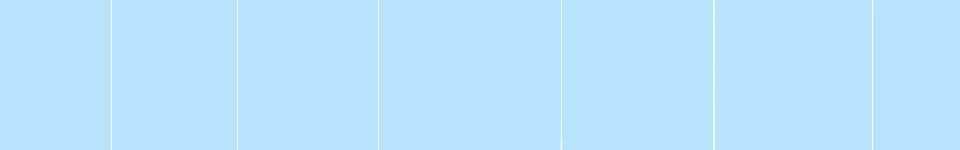
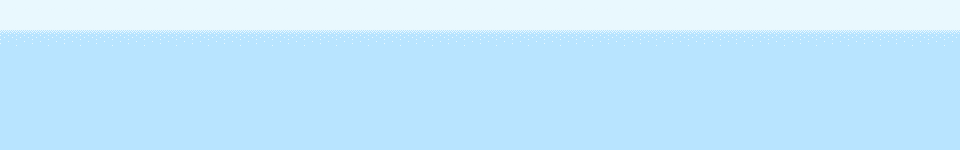
physics ajustments

Changed region(s): [[0.0, 0.0, 1.0, 0.2667]]

diff --git a/src/scenes/Play.js b/src/scenes/Play.js
@@ -5,9 +5,9 @@ class Play extends Phaser.Scene {
 
     create() {
 
-        this.JUMP_VELOCITY = -900;
+        this.JUMP_VELOCITY = -800;
         this.SCROLL_SPEED = 4;
-        this.physics.world.gravity.y = 2600;
+        this.physics.world.gravity.y = 3000; //2600;
         this.obstacleSpeed = -450;
         this.obstacleSpeedMax = -700; //-1000;
         level = 0;
@@ -68,6 +68,7 @@ class Play extends Phaser.Scene {
     update() {
 
         // this.ground.tilePositionX -= 1; 
+        this.sky.tilePositionX += 2;
         this.groundScroll.tilePositionX += this.SCROLL_SPEED;
 
         // make sure penguin is still alive
@@ -77,6 +78,7 @@ class Play extends Phaser.Scene {
             // penguin animations
             if (!this.penguin.body.touching.down && !sliding) {
                 this.penguin.anims.play('jump', true);
+                // console.log(this.penguin.getBottomCenter()); 
             }
             else if (this.penguin.body.touching.down && Phaser.Input.Keyboard.JustDown(keyDown)) {
                 sliding = true; 
@@ -126,7 +128,7 @@ class Play extends Phaser.Scene {
         this.penguin.destroyed = true;                    // turn off collision checking
         this.difficultyTimer.destroy();             // shut down timer
         // this.sound.play('death', { volume: 0.25 }); // play death sound
-        // this.cameras.main.shake(2500, 0.0075);      // camera death shake
+        this.cameras.main.shake(2500, 0.0075);      // camera death shake
         
         // // add tween to fade out audio
         // this.tweens.add({
@@ -140,7 +142,7 @@ class Play extends Phaser.Scene {
         this.penguin.destroy();    
 
         // switch states after timer expires
-        this.time.delayedCall(4000, () => { this.scene.start('gameOverScene'); });
+        this.time.delayedCall(2000, () => { this.scene.start('gameOverScene'); });
 
     }
 }

diff --git a/src/prefabs/Obstacle.js b/src/prefabs/Obstacle.js
@@ -6,7 +6,7 @@ class Obstacle extends Phaser.Physics.Arcade.Sprite {
         let randomObstacle = ['penguin']; 
         // super(scene, game.config.width + obstacleWidth, Phaser.Math.Between(obstacleHeight/2, game.config.height - obstacleHeight/2), randomObstacle[Math.floor(Math.random() * randomObstacle.length)]); 
         // super(scene, game.config.width + obstacleWidth, 365, 'penguin'); 
-        super(scene, game.config.width + obstacleWidth, 335, 'snowball'); 
+        super(scene, game.config.width + obstacleWidth, 320, 'snowball'); 
         
         this.parentScene = scene;               // maintain scene context
 

diff --git a/src/scenes/Load.js b/src/scenes/Load.js
@@ -77,9 +77,9 @@ class Load extends Phaser.Scene {
             frames: [
                 {frame: 'penguin-slide1'}, 
                 {frame: 'penguin-slide2'}, 
-                {frame: 'penguin-slide3', duration: 250}
+                {frame: 'penguin-slide3', duration: 200}
             ],
-            frameRate: 5,
+            frameRate: 6,
             yoyo: true
         })
         this.anims.create({
